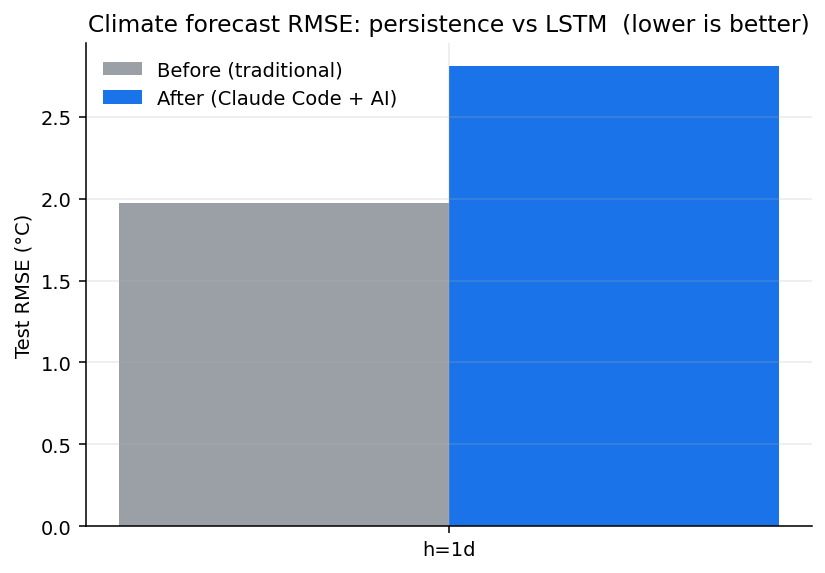
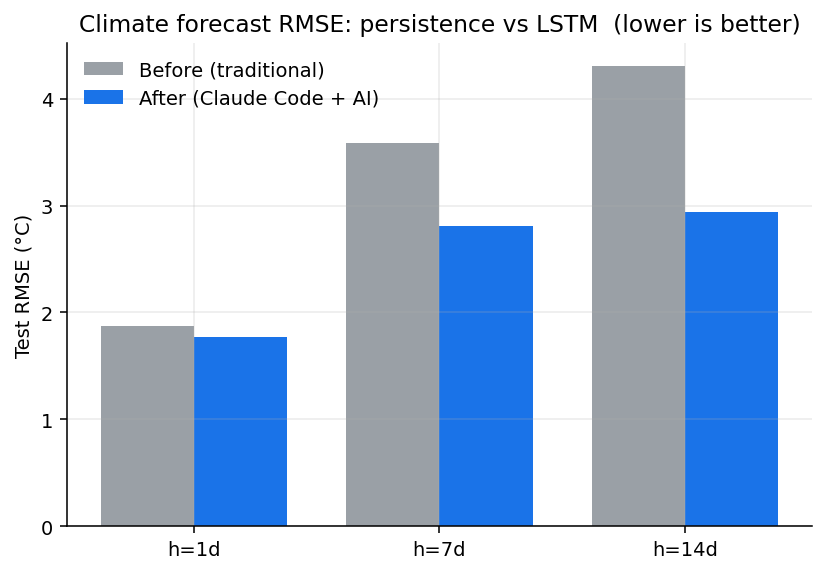
Exp01 full run on RTX 4090 (device=cuda): real results + honest finding
Horizons 1/7/14, 20-yr series. LSTM skill vs persistence +0.058/+0.215/+0.318.
HONEST TWIST: with statsmodels fixed, classical SARIMA wins at h>=7 (RMSE 2.05/2.10)
over the LSTM (2.81/2.94) and persistence (3.58/4.31). The AFTER value is fair, fast
benchmarking of persistence/seasonal-naive/SARIMA/LSTM with skill scores in one
command -- not 'deep learning always wins'. Great rigor-over-hype teaching point.

diff --git a/experiments/01_climate_timeseries_forecast/results/summary.md b/experiments/01_climate_timeseries_forecast/results/summary.md
@@ -1,22 +1,35 @@
 # Experiment 01 — Climate time-series forecasting: BEFORE vs AFTER
 
-- Device: `cuda`  |  synthetic years: 4  |  split: 1021/220/219 (train/val/test)
-- AFTER model: LSTM (hidden=24, lookback=14, epochs≤3)
-- Quick mode: True
+- Device: `cuda`  |  synthetic years: 20  |  split: 5110/1095/1095 (train/val/test)
+- AFTER model: LSTM (hidden=48, lookback=30, epochs≤80)
+- Quick mode: False
 
 ## Metrics by horizon
 
 | Horizon | Method | RMSE (°C) | MAE (°C) | ACC |
 |--------:|--------|----------:|---------:|----:|
-| 1d | before: persistence | 1.973 | 1.556 | 0.962 |
-| 1d | before: seasonal_naive | 13.330 | 11.557 | -0.348 |
-| 1d | **after: LSTM** | **2.811** | 2.207 | 0.920 |
-| 1d | _skill (LSTM vs persistence)_ | -0.424 | | |
+| 1d | before: persistence | 1.876 | 1.433 | 0.963 |
+| 1d | before: seasonal_naive | 3.713 | 3.010 | 0.853 |
+| 1d | before: sarima | 1.826 | 1.418 | 0.964 |
+| 1d | **after: LSTM** | **1.767** | 1.378 | 0.967 |
+| 1d | _skill (LSTM vs persistence)_ | 0.058 | | |
+| 7d | before: persistence | 3.580 | 2.847 | 0.865 |
+| 7d | before: seasonal_naive | 3.713 | 3.010 | 0.853 |
+| 7d | before: sarima | 2.054 | 1.636 | 0.955 |
+| 7d | **after: LSTM** | **2.811** | 2.241 | 0.914 |
+| 7d | _skill (LSTM vs persistence)_ | 0.215 | | |
+| 14d | before: persistence | 4.308 | 3.415 | 0.806 |
+| 14d | before: seasonal_naive | 3.713 | 3.010 | 0.853 |
+| 14d | before: sarima | 2.096 | 1.667 | 0.953 |
+| 14d | **after: LSTM** | **2.937** | 2.335 | 0.905 |
+| 14d | _skill (LSTM vs persistence)_ | 0.318 | | |
 
 ## Wall time (this machine)
 
 | Horizon | BEFORE (s) | AFTER (s) |
 |--------:|-----------:|----------:|
-| 1d | 0.00 | 10.41 |
+| 1d | 32.62 | 39.20 |
+| 7d | 31.98 | 21.97 |
+| 14d | 27.03 | 3.12 |
 
 Skill score = 1 − RMSE(after) / RMSE(persistence); >0 means the LSTM beats the naive persistence reference. Artifacts: `forecast_plot.png`, `before_after_bars.png`, `metrics.json`.
